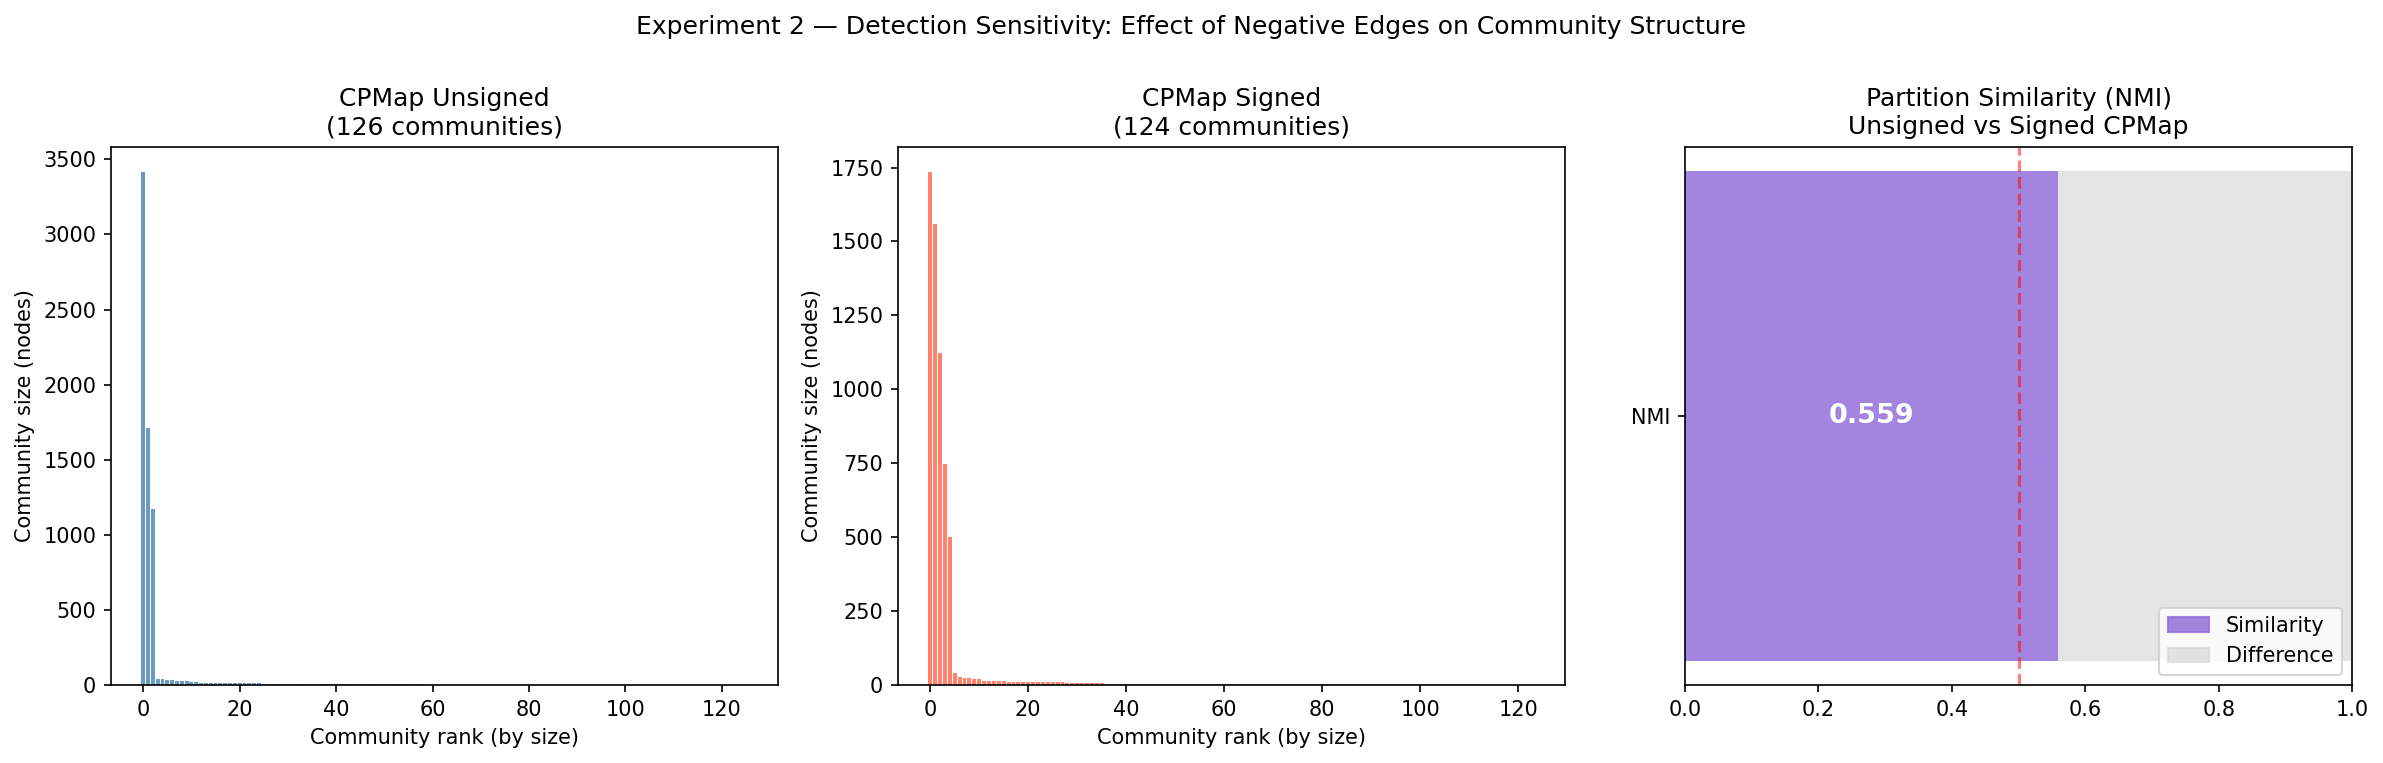
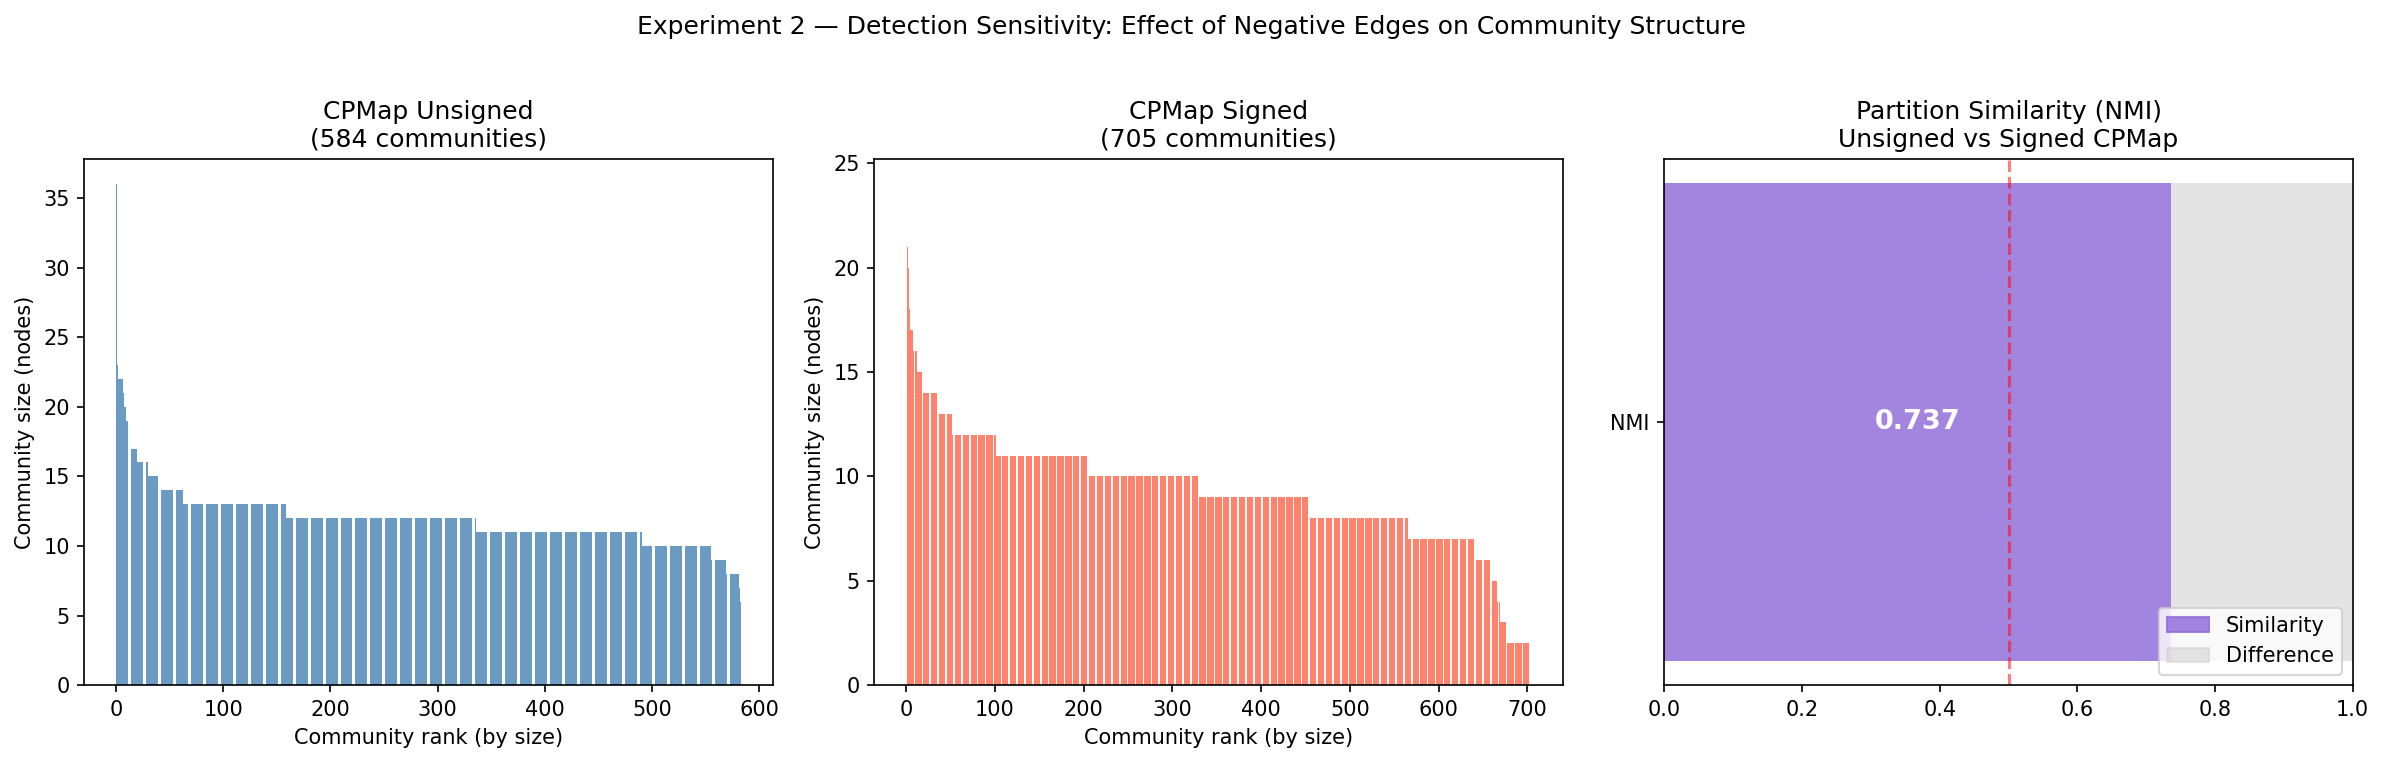
Adding Experiment 4 ran on experiment 2

diff --git a/Experiments/Experiment_4-bis.py b/Experiments/Experiment_4-bis.py
@@ -4,6 +4,7 @@ import random
 import matplotlib.pyplot as plt
 import numpy as np
 from itertools import combinations
+import pickle 
 
 # ── Signed BA Model ────────────────────────────────────────────────────────
 
@@ -88,9 +89,11 @@ def visualise_signed_network(G, title="Signed Barabási–Albert Network",
 if __name__ == "__main__":
     # build network
     G = signed_ba_model(n=7000, m=3, p_positive=0.5, seed=42)
+    with open("signed_ba.pkl", "wb") as f:
+        pickle.dump(G, f)
     #G1 = signed_ba_model(n=7000, m = 3, p_positive=0.1, seed=42)
     #G2 = signed_ba_model(n=7000, m = 3, p_positive=0.9, seed=42)
     # visualise
-    visualise_signed_network(G)
+    #visualise_signed_network(G)
     #visualise_signed_network(G1, save_path="signed_ba1.png")
     #visualise_signed_network(G2, save_path="signed_ba2.png")
